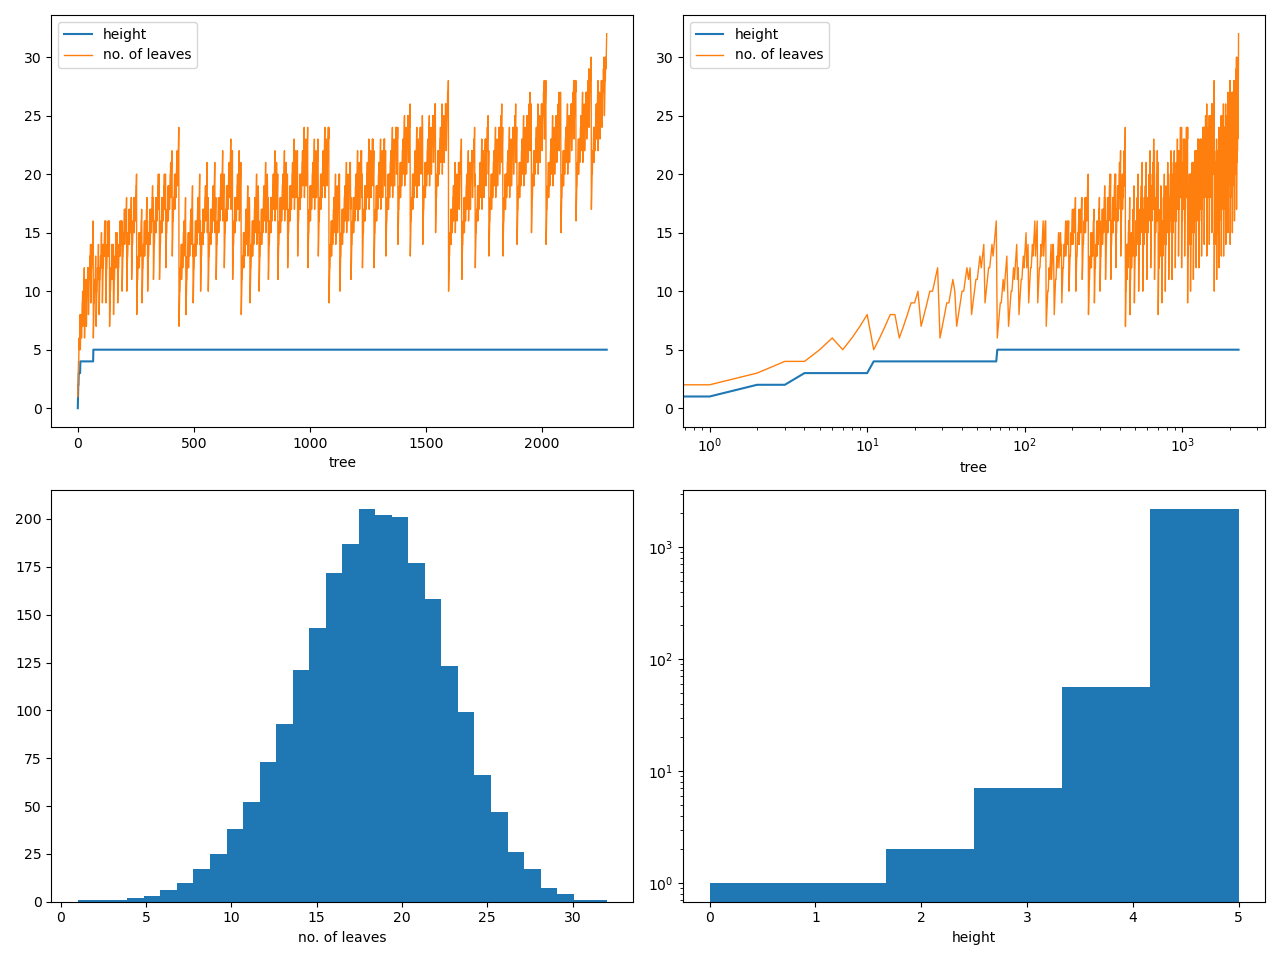
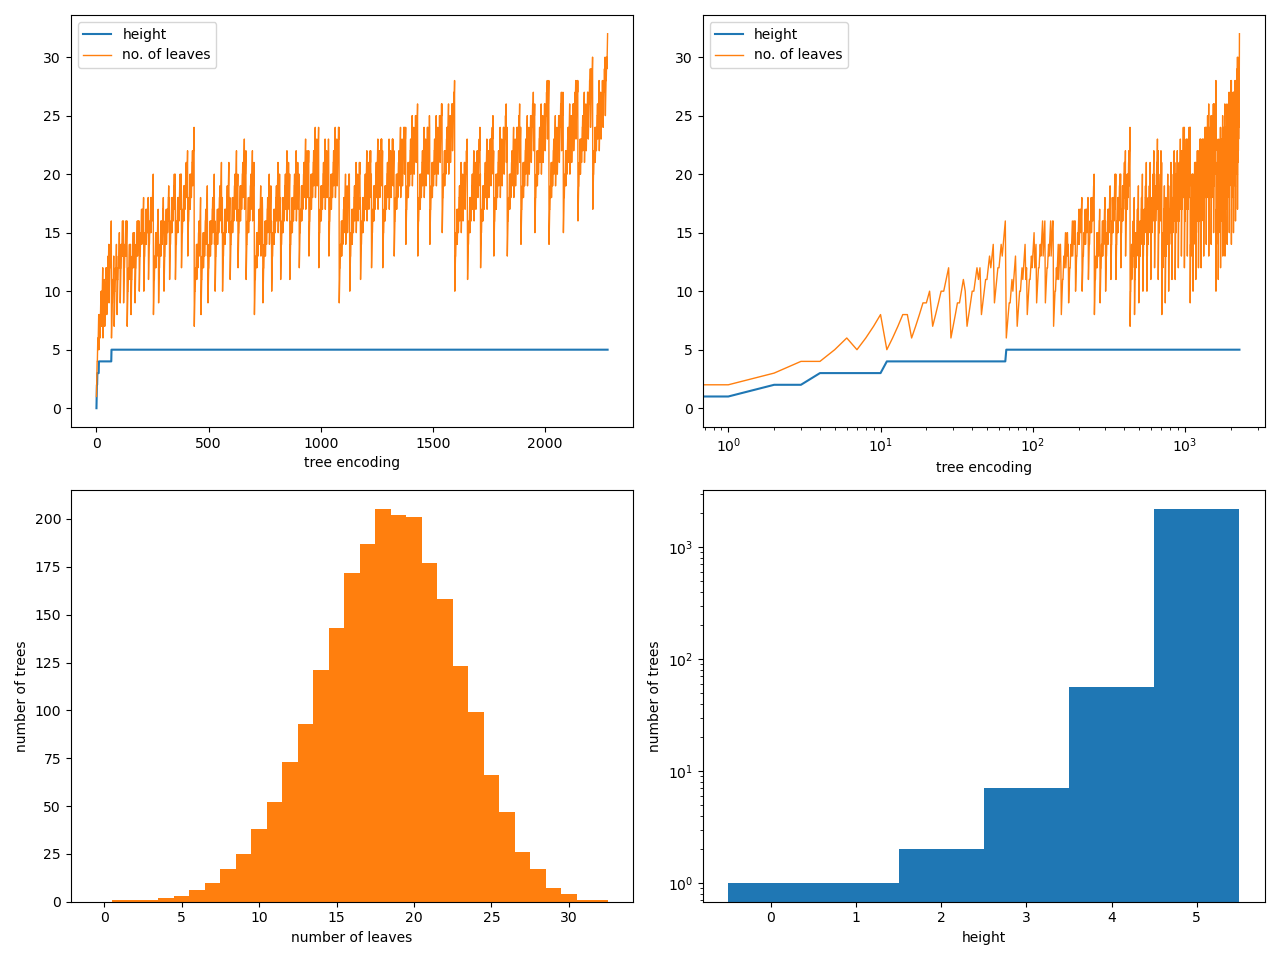
Cleanup

diff --git a/test.py b/test.py
@@ -1,7 +1,7 @@
 import unittest
 import full_binary
 
-mergers = dict()
+mergers = {}
 m, n, p = 0, 0, 1
 while p <= 10:
     mergers[(m, n)] = p
@@ -14,7 +14,7 @@ while p <= 10:
 heights = {0: 0, 1: 1, 2: 2, 3: 2, 4: 3, 5: 3, 10: 3, 11: 4}
 n_nodes = {0: 0, 1: 1, 2: 2, 3: 3, 4: 3, 5: 4, 10: 7, 11: 4}
 n_leaves = {0: 1, 1: 2, 2: 3, 3: 4, 4: 4, 5: 5, 10: 8, 11: 5}
-tree_9 = '''
+TREE_9 = '''
    ┌───┴───┐   
  ┌─┴─┐   ┌─┴─┐ 
 ┌┴┐ ┌┴┐ ┌┴┐    
@@ -23,27 +23,27 @@ tree_9 = '''
 
 class AncestreeTestCase(unittest.TestCase):
     def test_merge(self):
-        for merger in mergers:
-            self.assertEqual(mergers[merger], full_binary.merge_trees(*merger), 'Merging '+str(merger))
+        for m_n, p_val in mergers.items():
+            self.assertEqual(p_val, full_binary.merge_trees(*m_n), 'Merging '+str(m_n))
 
     def test_split(self):
-        for merger in mergers:
-            self.assertEqual(merger, full_binary.split_tree(mergers[merger]), 'Splitting ' + str(mergers[merger]))
+        for m_n, p_val in mergers.items():
+            self.assertEqual(m_n, full_binary.split_tree(p_val), 'Splitting ' + str(p_val))
 
     def test_height(self):
-        for tree in heights:
-            self.assertEqual(heights[tree], full_binary.height_of_tree(tree))
+        for tree, height in heights.items():
+            self.assertEqual(height, full_binary.height_of_tree(tree))
 
     def test_n_nodes(self):
-        for tree in n_nodes:
-            self.assertEqual(n_nodes[tree], full_binary.n_nodes_in_tree(tree))
+        for tree, n_node in n_nodes.items():
+            self.assertEqual(n_node, full_binary.n_nodes_in_tree(tree))
 
     def test_n_leaves(self):
-        for tree in n_leaves:
-            self.assertEqual(n_leaves[tree], full_binary.n_leaves_in_tree(tree))
+        for tree, n_leaf in n_leaves.items():
+            self.assertEqual(n_leaf, full_binary.n_leaves_in_tree(tree))
 
     def test_diagram(self):
-        self.assertEqual(tree_9, full_binary.show_tree(9))
+        self.assertEqual(TREE_9, full_binary.show_tree(9))
 
 
 if __name__ == '__main__':

diff --git a/full_binary.py b/full_binary.py
@@ -24,34 +24,31 @@ def merge_trees(tree1: int, tree2: int):
 def split_tree(tree: int):
     if tree == 0:
         return None, None
-    elif tree == 1:
+    if tree == 1:
         return 0, 0
     h = height_of_tree(tree)
     n = tree - n_trees[h-1]
     for m in range(n_trees[h-2], n_trees[h-1]):
         if n <= m:
             return m, n
-        else:
-            n -= m+1
+        n -= m+1
 
 
 def height_of_tree(tree: int):
     # generation-1 (natal = 1st gen)
     if tree in n_trees:
         return n_trees.index(tree) + 1
-    else:
-        return sorted([tree] + n_trees).index(tree)
+    return sorted([tree] + n_trees).index(tree)
 
 
 def height_of_tree_recursive(tree: int):
     # generation-1
     if tree == 0:
         return 0
-    else:
-        m, n = split_tree(tree)
-        # return max(height_of_tree(m), height_of_tree(n)) + 1
-        # max(h(m),h(n)) = h(m) as m>=n and h is non-decreasing
-        return height_of_tree(m) + 1
+    m, _ = split_tree(tree)
+    # return max(height_of_tree(m), height_of_tree(n)) + 1
+    # max(h(m),h(n)) = h(m) as m>=n and h is non-decreasing
+    return height_of_tree(m) + 1
 
 
 def n_leaves_in_tree(tree: int):
@@ -85,9 +82,9 @@ def show_tree(tree: int):
         no_node = ' '*len(node)
         spacing = ' '*(len(node)-2)
         diagram += ' '*(2**(row-1)-1)  # blank at start of row
-        for i in range(len(components)):
-            new_components.extend(split_tree(components[i]))
-            if components[i]:
+        for i, component in enumerate(components):
+            new_components.extend(split_tree(component))
+            if component:
                 diagram += node
             else:
                 diagram += no_node

diff --git a/plot.py b/plot.py
@@ -16,19 +16,21 @@ ns = np.arange(0, n)
 ax[0, 0].plot(ns, height, label="height")
 ax[0, 0].plot(ns, n_leaves, label="no. of leaves", lw=1)
 ax[0, 0].legend()
-ax[0, 0].set_xlabel("tree")
+ax[0, 0].set_xlabel("tree encoding")
 
 ax[0, 1].set_xscale('log')
 ax[0, 1].plot(ns, height, label="height")
 ax[0, 1].plot(ns, n_leaves, label="no. of leaves", lw=1)
 ax[0, 1].legend()
-ax[0, 1].set_xlabel("tree")
+ax[0, 1].set_xlabel("tree encoding")
 
-ax[1, 0].hist(n_leaves, bins=max(n_leaves))
-ax[1, 0].set_xlabel("no. of leaves")
+ax[1, 0].hist(n_leaves, bins=np.arange(-0.5, max(n_leaves)+1.5), color='C1')
+ax[1, 0].set_xlabel("number of leaves")
+ax[1, 0].set_ylabel("number of trees")
 
-ax[1, 1].hist(height, bins=max(height)+1, log=True)
+ax[1, 1].hist(height, bins=np.arange(-0.5, max(height)+1.5), log=True, color='C0')
 ax[1, 1].set_xlabel("height")
+ax[1, 1].set_ylabel("number of trees")
 
 fig.tight_layout()
 fig.savefig('plot.png')
